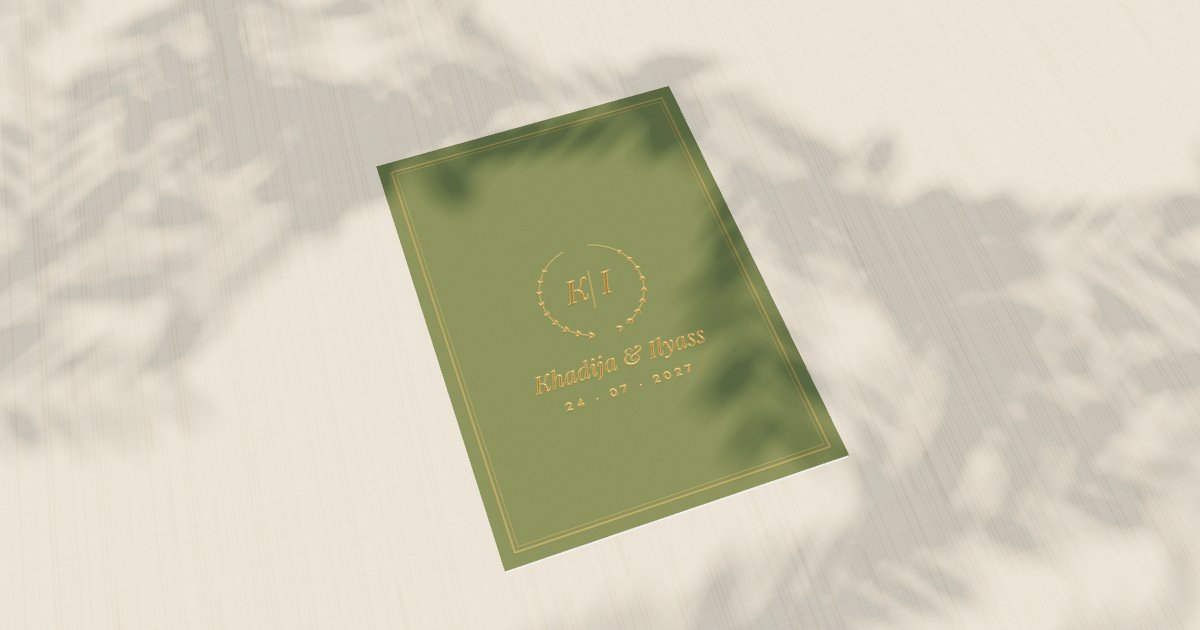
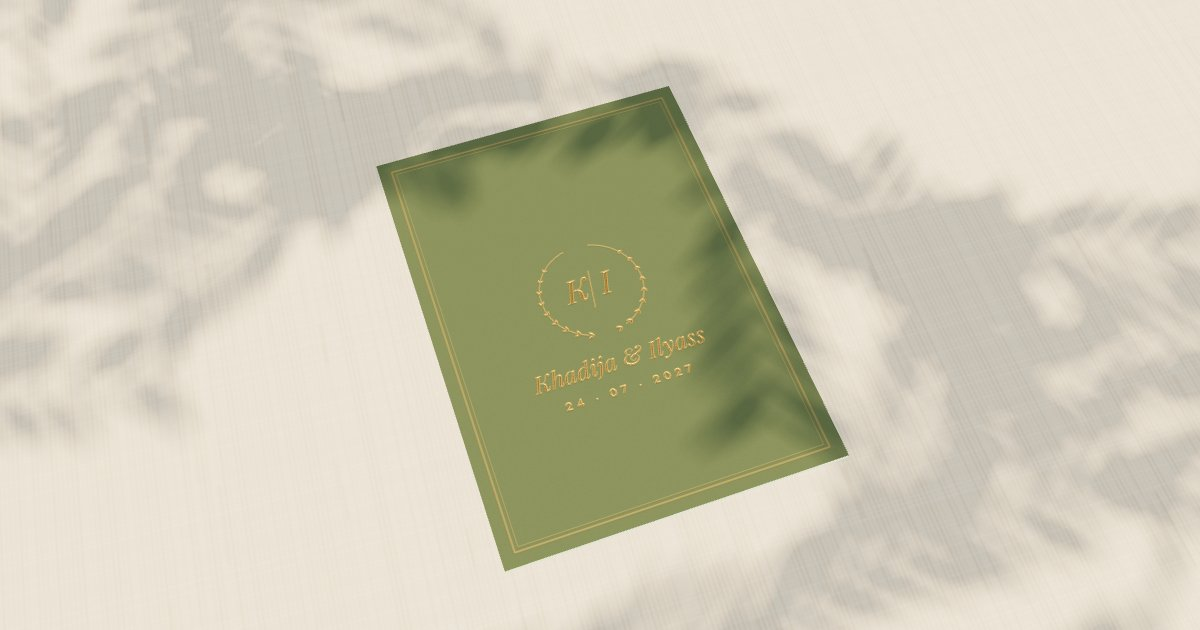
Carte : fond vert sauge clair

diff --git a/index.html b/index.html
@@ -411,7 +411,7 @@ function wreath(P, cx, cy, r, kind){
   }
 }
 function buildPrints(){
-  texFront = printJob(R, RH, '#fbf7ef', P => {
+  texFront = printJob(R, RH, '#bccaa0', P => {
     const {w,h} = P, c = w/2;
     P.stroke(g => g.rect(56,56,w-112,h-112), 2.4, 'foil');
     P.stroke(g => g.rect(74,74,w-148,h-148), 1, 'foil');
@@ -464,7 +464,7 @@ function halfTex(src, right){
 /* ---------------- card ---------------- */
 const card = new THREE.Group(), flipper = new THREE.Group();
 function buildCard(){
-  const edge = new THREE.MeshStandardMaterial({color:0xf1eadc, roughness:.95});
+  const edge = new THREE.MeshStandardMaterial({color:0xb3c196, roughness:.95});
   const m = new THREE.Mesh(new THREE.BoxGeometry(W,H,T), [edge,edge,edge,edge, paperMat(texFront), paperMat(texBack,{bumpScale:1.6})]);
   m.castShadow = m.receiveShadow = true;
   flipper.add(m); card.add(flipper);
